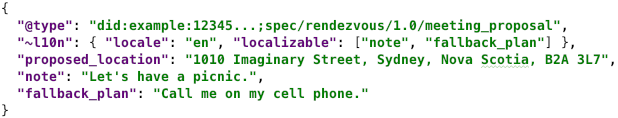
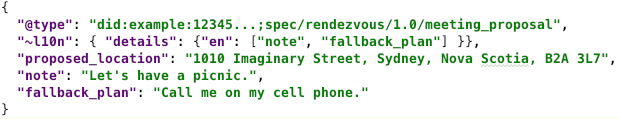
add details field

diff --git a/text/localized-messages/README.md b/text/localized-messages/README.md
@@ -272,14 +272,14 @@ similar fields to establish defaults that are overridden in `~l10n.details`:
 
 ```JSON
 "~l10n": { 
-"locale": "en",
-"details": {
-  "de": ["content.key@*", "content.Geburtstag", "content.Heiratsdatum"]
+  "details": {
+    "de": ["content.key@*", "content.Geburtstag", "content.Heiratsdatum"]
+  }
 }
 ```
 
-This says that all fields under `content` have key names that are German, and
-that the `content.Geburtstag` and `content.Heiratsdatum` fields (which are of type
+This says that all fields under `content` have *names* that are German, and
+that the `content.Geburtstag` and `content.Heiratsdatum` field *values* (which are of type
 date) are also represented in a German locale rather than the default ISO 8601.
 
 # Drawbacks
